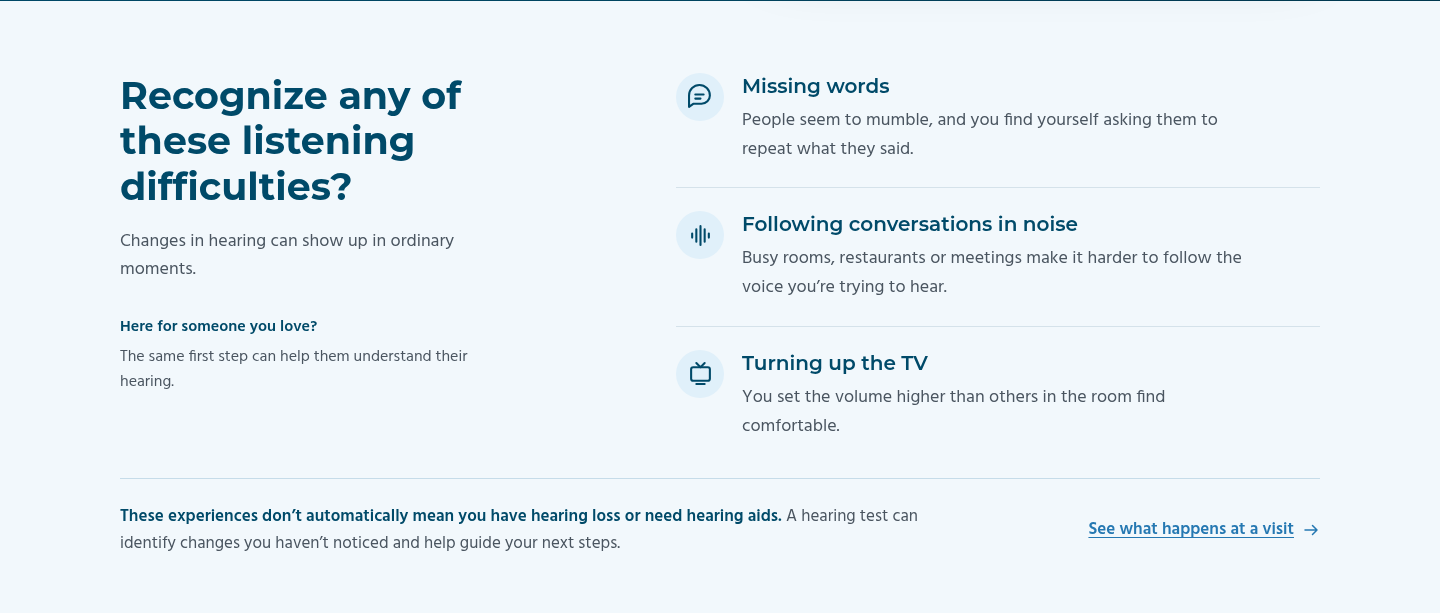
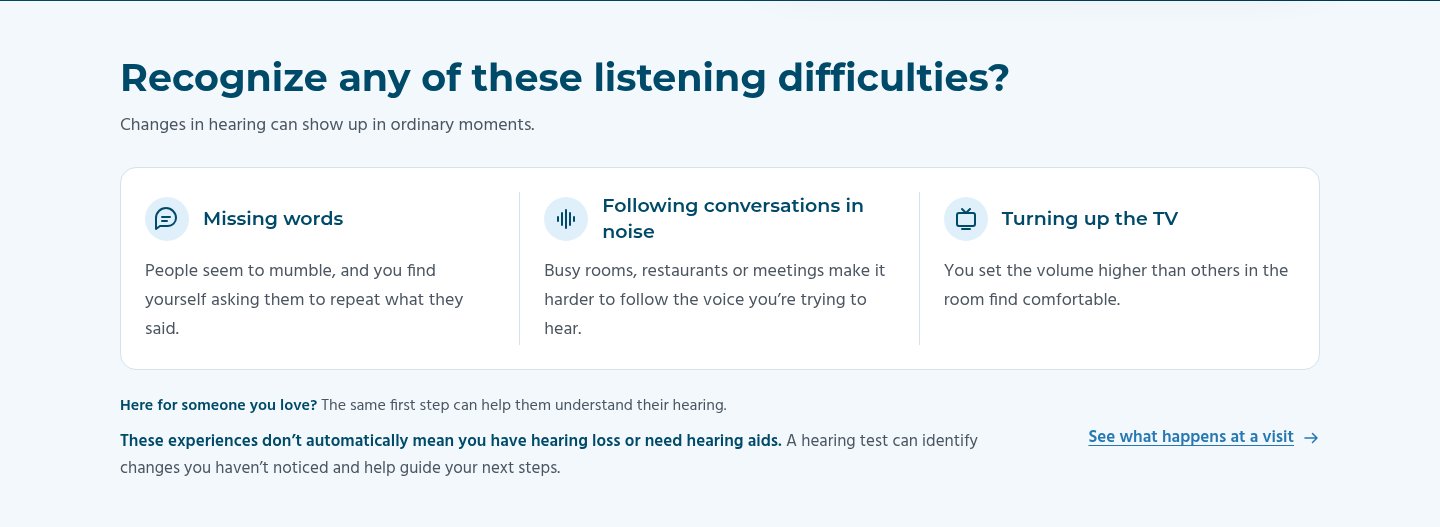
Use recognition section width more efficiently across screens

diff --git a/index.html b/index.html
@@ -303,38 +303,44 @@ a:hover{ color:var(--hc-navy); }
 .hc-ph--portrait{ aspect-ratio:1 / 1; width:100%; }
 .hc-ph--product{ aspect-ratio:4 / 3; width:100%; }
 
-/* ---------- Everyday difficulty: approved editorial layout ---------- */
-.hc-recognition{ padding:72px 0 56px; background:#f2f8fc; }
-.hc-recognition__grid{ display:grid; grid-template-columns:minmax(0,.85fr) minmax(0,1.15fr); column-gap:80px; align-items:start; }
-.hc-recognition__intro h2{ max-width:430px; }
-.hc-recognition__intro > p{ margin-top:18px; max-width:380px; color:var(--hc-muted); }
-.hc-recognition__family{ margin-top:30px; max-width:370px; font-size:1rem; line-height:1.6; color:var(--hc-muted); }
-.hc-recognition__family strong{ display:block; margin-bottom:4px; color:var(--hc-navy); font-weight:600; }
-.hc-recognition .hc-signs{ list-style:none; margin:0; padding:0; display:grid; gap:0; }
-.hc-recognition .hc-signs li{ display:grid; grid-template-columns:48px minmax(0,1fr); gap:18px; padding:23px 0; border-bottom:1px solid var(--hc-border); }
-.hc-recognition .hc-signs li:first-child{ padding-top:0; }
-.hc-recognition .hc-signs li:last-child{ padding-bottom:0; border-bottom:0; }
-.hc-recognition__icon{ width:48px; height:48px; display:flex; align-items:center; justify-content:center; border-radius:50%; background:#e0f0fa; color:var(--hc-navy); }
-.hc-recognition__icon svg{ width:25px; height:25px; }
-.hc-recognition .hc-signs h3{ margin:0 0 7px; font-size:1.25rem; line-height:1.35; }
-.hc-recognition .hc-signs p{ margin:0; max-width:520px; color:var(--hc-muted); font-size:1.125rem; line-height:1.6; }
-.hc-recognition .hc-bridge{ max-width:none; margin-top:36px; padding-top:24px; border-top:1px solid #c6dce9; display:grid; grid-template-columns:minmax(0,1fr) auto; gap:24px 48px; align-items:center; }
-.hc-recognition .hc-bridge p{ max-width:850px; margin:0; font-size:1.0625rem; line-height:1.6; color:var(--hc-muted); }
+/* ---------- Everyday difficulty: compact full-width composition ---------- */
+.hc-recognition{ padding:54px 0 44px; background:#f2f8fc; }
+.hc-recognition__grid{ display:grid; gap:26px; }
+.hc-recognition__intro h2{ max-width:none; }
+.hc-recognition__intro > p{ margin-top:12px; color:var(--hc-muted); }
+.hc-recognition .hc-signs{ list-style:none; margin:0; padding:24px 0; display:grid; grid-template-columns:repeat(3,minmax(0,1fr)); background:var(--hc-white); border:1px solid var(--hc-border); border-radius:16px; }
+.hc-recognition .hc-signs li{ display:grid; grid-template-columns:44px minmax(0,1fr); grid-template-rows:auto 1fr; gap:12px 14px; padding:0 24px; border-right:1px solid var(--hc-border); align-items:center; }
+.hc-recognition .hc-signs li:last-child{ border-right:0; }
+.hc-recognition .hc-signs li > div{ display:contents; }
+.hc-recognition__icon{ grid-column:1; grid-row:1; width:44px; height:44px; display:flex; align-items:center; justify-content:center; border-radius:50%; background:#e0f0fa; color:var(--hc-navy); }
+.hc-recognition__icon svg{ width:24px; height:24px; }
+.hc-recognition .hc-signs h3{ grid-column:2; grid-row:1; min-height:54px; display:flex; align-items:center; margin:0; font-size:1.1875rem; line-height:1.4; }
+.hc-recognition .hc-signs p{ grid-column:1 / -1; grid-row:2; align-self:start; margin:0; color:var(--hc-muted); font-size:1.125rem; line-height:1.6; }
+.hc-recognition .hc-bridge{ max-width:none; margin-top:24px; display:grid; grid-template-columns:minmax(0,1fr) auto; gap:24px 36px; align-items:center; }
+.hc-recognition__closing{ max-width:920px; }
+.hc-recognition__family{ margin:0 0 9px; font-size:1rem; line-height:1.6; color:var(--hc-muted); }
+.hc-recognition__family strong{ color:var(--hc-navy); font-weight:600; }
+.hc-recognition .hc-bridge p{ margin:0; font-size:1.0625rem; line-height:1.6; color:var(--hc-muted); }
 .hc-recognition .hc-bridge p strong{ color:var(--hc-navy); font-weight:600; }
 .hc-recognition .hc-bridge a{ display:inline-flex; align-items:center; gap:8px; min-height:44px; font-size:1.0625rem; font-weight:600; white-space:nowrap; }
 .hc-recognition .hc-bridge a svg{ width:18px; height:18px; flex:none; }
-@media(max-width:1023px){ .hc-recognition__grid{ column-gap:40px; grid-template-columns:minmax(0,.9fr) minmax(0,1.1fr); } .hc-recognition .hc-bridge{ grid-template-columns:1fr; gap:10px; } }
+@media(max-width:1023px){
+ .hc-recognition .hc-signs li{ padding:0 18px; grid-template-columns:1fr; gap:10px; align-items:start; }
+ .hc-recognition .hc-signs h3{ grid-column:1; grid-row:2; }
+ .hc-recognition .hc-signs p{ grid-row:3; }
+ .hc-recognition .hc-bridge{ grid-template-columns:1fr; gap:10px; }
+}
 @media(max-width:767px){
- .hc-recognition{ padding:44px 0 40px; }
- .hc-recognition__grid{ grid-template-columns:minmax(0,1fr); gap:26px; }
- .hc-recognition__intro h2{ max-width:520px; }
- .hc-recognition__intro > p{ margin-top:14px; max-width:520px; }
- .hc-recognition__family{ margin-top:18px; max-width:520px; }
- .hc-recognition .hc-signs li{ grid-template-columns:40px minmax(0,1fr); gap:14px; padding:18px 0; }
+ .hc-recognition{ padding:38px 0 36px; }
+ .hc-recognition__grid{ gap:22px; }
+ .hc-recognition .hc-signs{ grid-template-columns:minmax(0,1fr); padding:0 18px; }
+ .hc-recognition .hc-signs li{ grid-template-columns:40px minmax(0,1fr); grid-template-rows:auto; gap:12px; padding:20px 0; border-right:0; border-bottom:1px solid var(--hc-border); }
+ .hc-recognition .hc-signs li:last-child{ border-bottom:0; }
+ .hc-recognition .hc-signs li > div{ display:contents; }
+ .hc-recognition .hc-signs h3{ grid-column:2; grid-row:1; display:block; min-height:0; margin:0; }
+ .hc-recognition .hc-signs p{ grid-column:1 / -1; grid-row:2; }
  .hc-recognition__icon{ width:40px; height:40px; }
- .hc-recognition__icon svg{ width:23px; height:23px; }
- .hc-recognition .hc-signs h3{ font-size:1.1875rem; }
- .hc-recognition .hc-bridge{ margin-top:26px; padding-top:20px; gap:8px; }
+ .hc-recognition .hc-bridge{ margin-top:20px; gap:8px; }
  .hc-recognition .hc-bridge a{ white-space:normal; }
 }
 
@@ -655,10 +661,6 @@ a:hover{ color:var(--hc-navy); }
       <div class="hc-recognition__intro">
         <h2 id="signs-title">Recognize any of these listening difficulties?</h2>
         <p>Changes in hearing can show up in ordinary moments.</p>
-        <div class="hc-recognition__family">
-          <strong>Here for someone you love?</strong>
-          The same first step can help them understand their hearing.
-        </div>
       </div>
       <ul class="hc-signs">
         <li>
@@ -676,7 +678,10 @@ a:hover{ color:var(--hc-navy); }
       </ul>
     </div>
     <div class="hc-bridge">
+      <div class="hc-recognition__closing">
+        <div class="hc-recognition__family"><strong>Here for someone you love?</strong> The same first step can help them understand their hearing.</div>
       <p><strong>These experiences don’t automatically mean you have hearing loss or need hearing aids.</strong> A hearing test can identify changes you haven’t noticed and help guide your next steps.</p>
+      </div>
       <a href="#care">See what happens at a visit<svg class="hc-icon" viewBox="0 0 24 24" aria-hidden="true"><path d="M4 12h16m-6-6 6 6-6 6"/></svg></a>
     </div>
   </div>

diff --git a/review/hero-review.html b/review/hero-review.html
@@ -303,38 +303,44 @@ a:hover{ color:var(--hc-navy); }
 .hc-ph--portrait{ aspect-ratio:1 / 1; width:100%; }
 .hc-ph--product{ aspect-ratio:4 / 3; width:100%; }
 
-/* ---------- Everyday difficulty: approved editorial layout ---------- */
-.hc-recognition{ padding:72px 0 56px; background:#f2f8fc; }
-.hc-recognition__grid{ display:grid; grid-template-columns:minmax(0,.85fr) minmax(0,1.15fr); column-gap:80px; align-items:start; }
-.hc-recognition__intro h2{ max-width:430px; }
-.hc-recognition__intro > p{ margin-top:18px; max-width:380px; color:var(--hc-muted); }
-.hc-recognition__family{ margin-top:30px; max-width:370px; font-size:1rem; line-height:1.6; color:var(--hc-muted); }
-.hc-recognition__family strong{ display:block; margin-bottom:4px; color:var(--hc-navy); font-weight:600; }
-.hc-recognition .hc-signs{ list-style:none; margin:0; padding:0; display:grid; gap:0; }
-.hc-recognition .hc-signs li{ display:grid; grid-template-columns:48px minmax(0,1fr); gap:18px; padding:23px 0; border-bottom:1px solid var(--hc-border); }
-.hc-recognition .hc-signs li:first-child{ padding-top:0; }
-.hc-recognition .hc-signs li:last-child{ padding-bottom:0; border-bottom:0; }
-.hc-recognition__icon{ width:48px; height:48px; display:flex; align-items:center; justify-content:center; border-radius:50%; background:#e0f0fa; color:var(--hc-navy); }
-.hc-recognition__icon svg{ width:25px; height:25px; }
-.hc-recognition .hc-signs h3{ margin:0 0 7px; font-size:1.25rem; line-height:1.35; }
-.hc-recognition .hc-signs p{ margin:0; max-width:520px; color:var(--hc-muted); font-size:1.125rem; line-height:1.6; }
-.hc-recognition .hc-bridge{ max-width:none; margin-top:36px; padding-top:24px; border-top:1px solid #c6dce9; display:grid; grid-template-columns:minmax(0,1fr) auto; gap:24px 48px; align-items:center; }
-.hc-recognition .hc-bridge p{ max-width:850px; margin:0; font-size:1.0625rem; line-height:1.6; color:var(--hc-muted); }
+/* ---------- Everyday difficulty: compact full-width composition ---------- */
+.hc-recognition{ padding:54px 0 44px; background:#f2f8fc; }
+.hc-recognition__grid{ display:grid; gap:26px; }
+.hc-recognition__intro h2{ max-width:none; }
+.hc-recognition__intro > p{ margin-top:12px; color:var(--hc-muted); }
+.hc-recognition .hc-signs{ list-style:none; margin:0; padding:24px 0; display:grid; grid-template-columns:repeat(3,minmax(0,1fr)); background:var(--hc-white); border:1px solid var(--hc-border); border-radius:16px; }
+.hc-recognition .hc-signs li{ display:grid; grid-template-columns:44px minmax(0,1fr); grid-template-rows:auto 1fr; gap:12px 14px; padding:0 24px; border-right:1px solid var(--hc-border); align-items:center; }
+.hc-recognition .hc-signs li:last-child{ border-right:0; }
+.hc-recognition .hc-signs li > div{ display:contents; }
+.hc-recognition__icon{ grid-column:1; grid-row:1; width:44px; height:44px; display:flex; align-items:center; justify-content:center; border-radius:50%; background:#e0f0fa; color:var(--hc-navy); }
+.hc-recognition__icon svg{ width:24px; height:24px; }
+.hc-recognition .hc-signs h3{ grid-column:2; grid-row:1; min-height:54px; display:flex; align-items:center; margin:0; font-size:1.1875rem; line-height:1.4; }
+.hc-recognition .hc-signs p{ grid-column:1 / -1; grid-row:2; align-self:start; margin:0; color:var(--hc-muted); font-size:1.125rem; line-height:1.6; }
+.hc-recognition .hc-bridge{ max-width:none; margin-top:24px; display:grid; grid-template-columns:minmax(0,1fr) auto; gap:24px 36px; align-items:center; }
+.hc-recognition__closing{ max-width:920px; }
+.hc-recognition__family{ margin:0 0 9px; font-size:1rem; line-height:1.6; color:var(--hc-muted); }
+.hc-recognition__family strong{ color:var(--hc-navy); font-weight:600; }
+.hc-recognition .hc-bridge p{ margin:0; font-size:1.0625rem; line-height:1.6; color:var(--hc-muted); }
 .hc-recognition .hc-bridge p strong{ color:var(--hc-navy); font-weight:600; }
 .hc-recognition .hc-bridge a{ display:inline-flex; align-items:center; gap:8px; min-height:44px; font-size:1.0625rem; font-weight:600; white-space:nowrap; }
 .hc-recognition .hc-bridge a svg{ width:18px; height:18px; flex:none; }
-@media(max-width:1023px){ .hc-recognition__grid{ column-gap:40px; grid-template-columns:minmax(0,.9fr) minmax(0,1.1fr); } .hc-recognition .hc-bridge{ grid-template-columns:1fr; gap:10px; } }
+@media(max-width:1023px){
+ .hc-recognition .hc-signs li{ padding:0 18px; grid-template-columns:1fr; gap:10px; align-items:start; }
+ .hc-recognition .hc-signs h3{ grid-column:1; grid-row:2; }
+ .hc-recognition .hc-signs p{ grid-row:3; }
+ .hc-recognition .hc-bridge{ grid-template-columns:1fr; gap:10px; }
+}
 @media(max-width:767px){
- .hc-recognition{ padding:44px 0 40px; }
- .hc-recognition__grid{ grid-template-columns:minmax(0,1fr); gap:26px; }
- .hc-recognition__intro h2{ max-width:520px; }
- .hc-recognition__intro > p{ margin-top:14px; max-width:520px; }
- .hc-recognition__family{ margin-top:18px; max-width:520px; }
- .hc-recognition .hc-signs li{ grid-template-columns:40px minmax(0,1fr); gap:14px; padding:18px 0; }
+ .hc-recognition{ padding:38px 0 36px; }
+ .hc-recognition__grid{ gap:22px; }
+ .hc-recognition .hc-signs{ grid-template-columns:minmax(0,1fr); padding:0 18px; }
+ .hc-recognition .hc-signs li{ grid-template-columns:40px minmax(0,1fr); grid-template-rows:auto; gap:12px; padding:20px 0; border-right:0; border-bottom:1px solid var(--hc-border); }
+ .hc-recognition .hc-signs li:last-child{ border-bottom:0; }
+ .hc-recognition .hc-signs li > div{ display:contents; }
+ .hc-recognition .hc-signs h3{ grid-column:2; grid-row:1; display:block; min-height:0; margin:0; }
+ .hc-recognition .hc-signs p{ grid-column:1 / -1; grid-row:2; }
  .hc-recognition__icon{ width:40px; height:40px; }
- .hc-recognition__icon svg{ width:23px; height:23px; }
- .hc-recognition .hc-signs h3{ font-size:1.1875rem; }
- .hc-recognition .hc-bridge{ margin-top:26px; padding-top:20px; gap:8px; }
+ .hc-recognition .hc-bridge{ margin-top:20px; gap:8px; }
  .hc-recognition .hc-bridge a{ white-space:normal; }
 }
 
@@ -655,10 +661,6 @@ a:hover{ color:var(--hc-navy); }
       <div class="hc-recognition__intro">
         <h2 id="signs-title">Recognize any of these listening difficulties?</h2>
         <p>Changes in hearing can show up in ordinary moments.</p>
-        <div class="hc-recognition__family">
-          <strong>Here for someone you love?</strong>
-          The same first step can help them understand their hearing.
-        </div>
       </div>
       <ul class="hc-signs">
         <li>
@@ -676,7 +678,10 @@ a:hover{ color:var(--hc-navy); }
       </ul>
     </div>
     <div class="hc-bridge">
+      <div class="hc-recognition__closing">
+        <div class="hc-recognition__family"><strong>Here for someone you love?</strong> The same first step can help them understand their hearing.</div>
       <p><strong>These experiences don’t automatically mean you have hearing loss or need hearing aids.</strong> A hearing test can identify changes you haven’t noticed and help guide your next steps.</p>
+      </div>
       <a href="#care">See what happens at a visit<svg class="hc-icon" viewBox="0 0 24 24" aria-hidden="true"><path d="M4 12h16m-6-6 6 6-6 6"/></svg></a>
     </div>
   </div>

diff --git a/CONTENT_DIRECTION.md b/CONTENT_DIRECTION.md
@@ -173,3 +173,7 @@ User requested the supplied screenshot badge style: inline Google icon, white 4.
 The user approved the asymmetric editorial recommendation with headline 4: “Recognize any of these listening difficulties?” Current placement remains immediately after the locked Hero and before owners/patient proof. Visitor question: “Do these everyday experiences sound familiar?” The left column contains the chosen headline, brief introduction and family acknowledgement; the right column contains three purposeful icon-led rows (missing words, conversations in noise, TV volume). A full-width, restrained reassurance band states that these experiences do not automatically establish hearing loss or hearing-aid need, preserves the value of identifying unnoticed changes, and keeps the #care visit-explanation link. It is not a diagnostic checklist or a new primary conversion.
 
 Mobile stacks introduction/family context, observations, then reassurance/link. Retain comfortable prose size and simplify spacing; no photo, AI generation, separate sales CTA, generic card grid, or section reorder. The remaining mobile closing area was inspected in an actual local current-state rendering before edits, using the code and the user's screenshots together. Hero/header markup, Hero styling, contact configuration and integration scripts remain unchanged. This section is implemented for rendered review, NOT LOCKED; final approval is still required. Owners/reviews and other remaining sections have not been individually assessed or changed.
+
+## Space-utilization refinement requested by user
+
+The user requested better use of the available section width. Supersede the asymmetric split with a full-width heading/introduction and one continuous white surface containing three aligned editorial columns on desktop. This is a shared panel with separators, not separate repeated cards. Consolidate family acknowledgement, diagnostic reassurance and visit link in the compact closing area. On mobile, stack the icon-led examples within the shared panel, followed by closing context. Preserve all section wording, existing service link, locked Hero, header and integrations; no section reorder or removal. Implementation remains pending rendered approval.

diff --git a/DESIGN_SYSTEM.md b/DESIGN_SYSTEM.md
@@ -197,3 +197,7 @@ User requested the supplied screenshot badge style: inline Google icon, white 4.
 The user approved the asymmetric editorial recommendation with headline 4: “Recognize any of these listening difficulties?” Current placement remains immediately after the locked Hero and before owners/patient proof. Visitor question: “Do these everyday experiences sound familiar?” The left column contains the chosen headline, brief introduction and family acknowledgement; the right column contains three purposeful icon-led rows (missing words, conversations in noise, TV volume). A full-width, restrained reassurance band states that these experiences do not automatically establish hearing loss or hearing-aid need, preserves the value of identifying unnoticed changes, and keeps the #care visit-explanation link. It is not a diagnostic checklist or a new primary conversion.
 
 Mobile stacks introduction/family context, observations, then reassurance/link. Retain comfortable prose size and simplify spacing; no photo, AI generation, separate sales CTA, generic card grid, or section reorder. The remaining mobile closing area was inspected in an actual local current-state rendering before edits, using the code and the user's screenshots together. Hero/header markup, Hero styling, contact configuration and integration scripts remain unchanged. This section is implemented for rendered review, NOT LOCKED; final approval is still required. Owners/reviews and other remaining sections have not been individually assessed or changed.
+
+## Space-utilization refinement requested by user
+
+The user requested better use of the available section width. Supersede the asymmetric split with a full-width heading/introduction and one continuous white surface containing three aligned editorial columns on desktop. This is a shared panel with separators, not separate repeated cards. Consolidate family acknowledgement, diagnostic reassurance and visit link in the compact closing area. On mobile, stack the icon-led examples within the shared panel, followed by closing context. Preserve all section wording, existing service link, locked Hero, header and integrations; no section reorder or removal. Implementation remains pending rendered approval.

diff --git a/PAGE_STRATEGY.md b/PAGE_STRATEGY.md
@@ -224,3 +224,7 @@ User explicitly approved the current Hero. Mark it locked; no HTML or CSS change
 The user approved the asymmetric editorial recommendation with headline 4: “Recognize any of these listening difficulties?” Current placement remains immediately after the locked Hero and before owners/patient proof. Visitor question: “Do these everyday experiences sound familiar?” The left column contains the chosen headline, brief introduction and family acknowledgement; the right column contains three purposeful icon-led rows (missing words, conversations in noise, TV volume). A full-width, restrained reassurance band states that these experiences do not automatically establish hearing loss or hearing-aid need, preserves the value of identifying unnoticed changes, and keeps the #care visit-explanation link. It is not a diagnostic checklist or a new primary conversion.
 
 Mobile stacks introduction/family context, observations, then reassurance/link. Retain comfortable prose size and simplify spacing; no photo, AI generation, separate sales CTA, generic card grid, or section reorder. The remaining mobile closing area was inspected in an actual local current-state rendering before edits, using the code and the user's screenshots together. Hero/header markup, Hero styling, contact configuration and integration scripts remain unchanged. This section is implemented for rendered review, NOT LOCKED; final approval is still required. Owners/reviews and other remaining sections have not been individually assessed or changed.
+
+## Space-utilization refinement requested by user
+
+The user requested better use of the available section width. Supersede the asymmetric split with a full-width heading/introduction and one continuous white surface containing three aligned editorial columns on desktop. This is a shared panel with separators, not separate repeated cards. Consolidate family acknowledgement, diagnostic reassurance and visit link in the compact closing area. On mobile, stack the icon-led examples within the shared panel, followed by closing context. Preserve all section wording, existing service link, locked Hero, header and integrations; no section reorder or removal. Implementation remains pending rendered approval.

diff --git a/review/RECOGNITION_REVIEW.md b/review/RECOGNITION_REVIEW.md
@@ -23,3 +23,7 @@ Checked at 320, 390, 500, 768, 1024, 1440 and 1920px: no section overflow; three
 A source comparison verified all HTML/CSS outside this section is identical to the preceding commit, including locked Hero, header, remaining sections, contact data and integration scripts. No lead was submitted, and external form delivery was not tested.
 
 PAGE_STRATEGY.md, CONTENT_DIRECTION.md, DESIGN_SYSTEM.md and IMAGE_PROMPTS.md record the approved direction and current implementation. This section remains **awaiting rendered approval**; no further section review or edits are authorized by this implementation. Ask the user to approve, adjust or request an alternative before locking it and selecting the next section.
+
+## Latest space-use refinement
+
+User requested better use of section space. Replaced the asymmetric split with a full-width heading/introduction, one continuous white panel with three aligned desktop examples, and a compact shared closing area containing the family acknowledgement, reassurance and existing visit link. All wording and icons are retained. Mobile stacks examples with descriptions spanning the full panel width rather than leaving unused space beneath icons. Desktop section height is approximately 526px versus 612px for the preceding version. The locked Hero and all other sections remain unchanged. Latest screenshots and complete HTML reflect this revision; still awaiting rendered approval.
